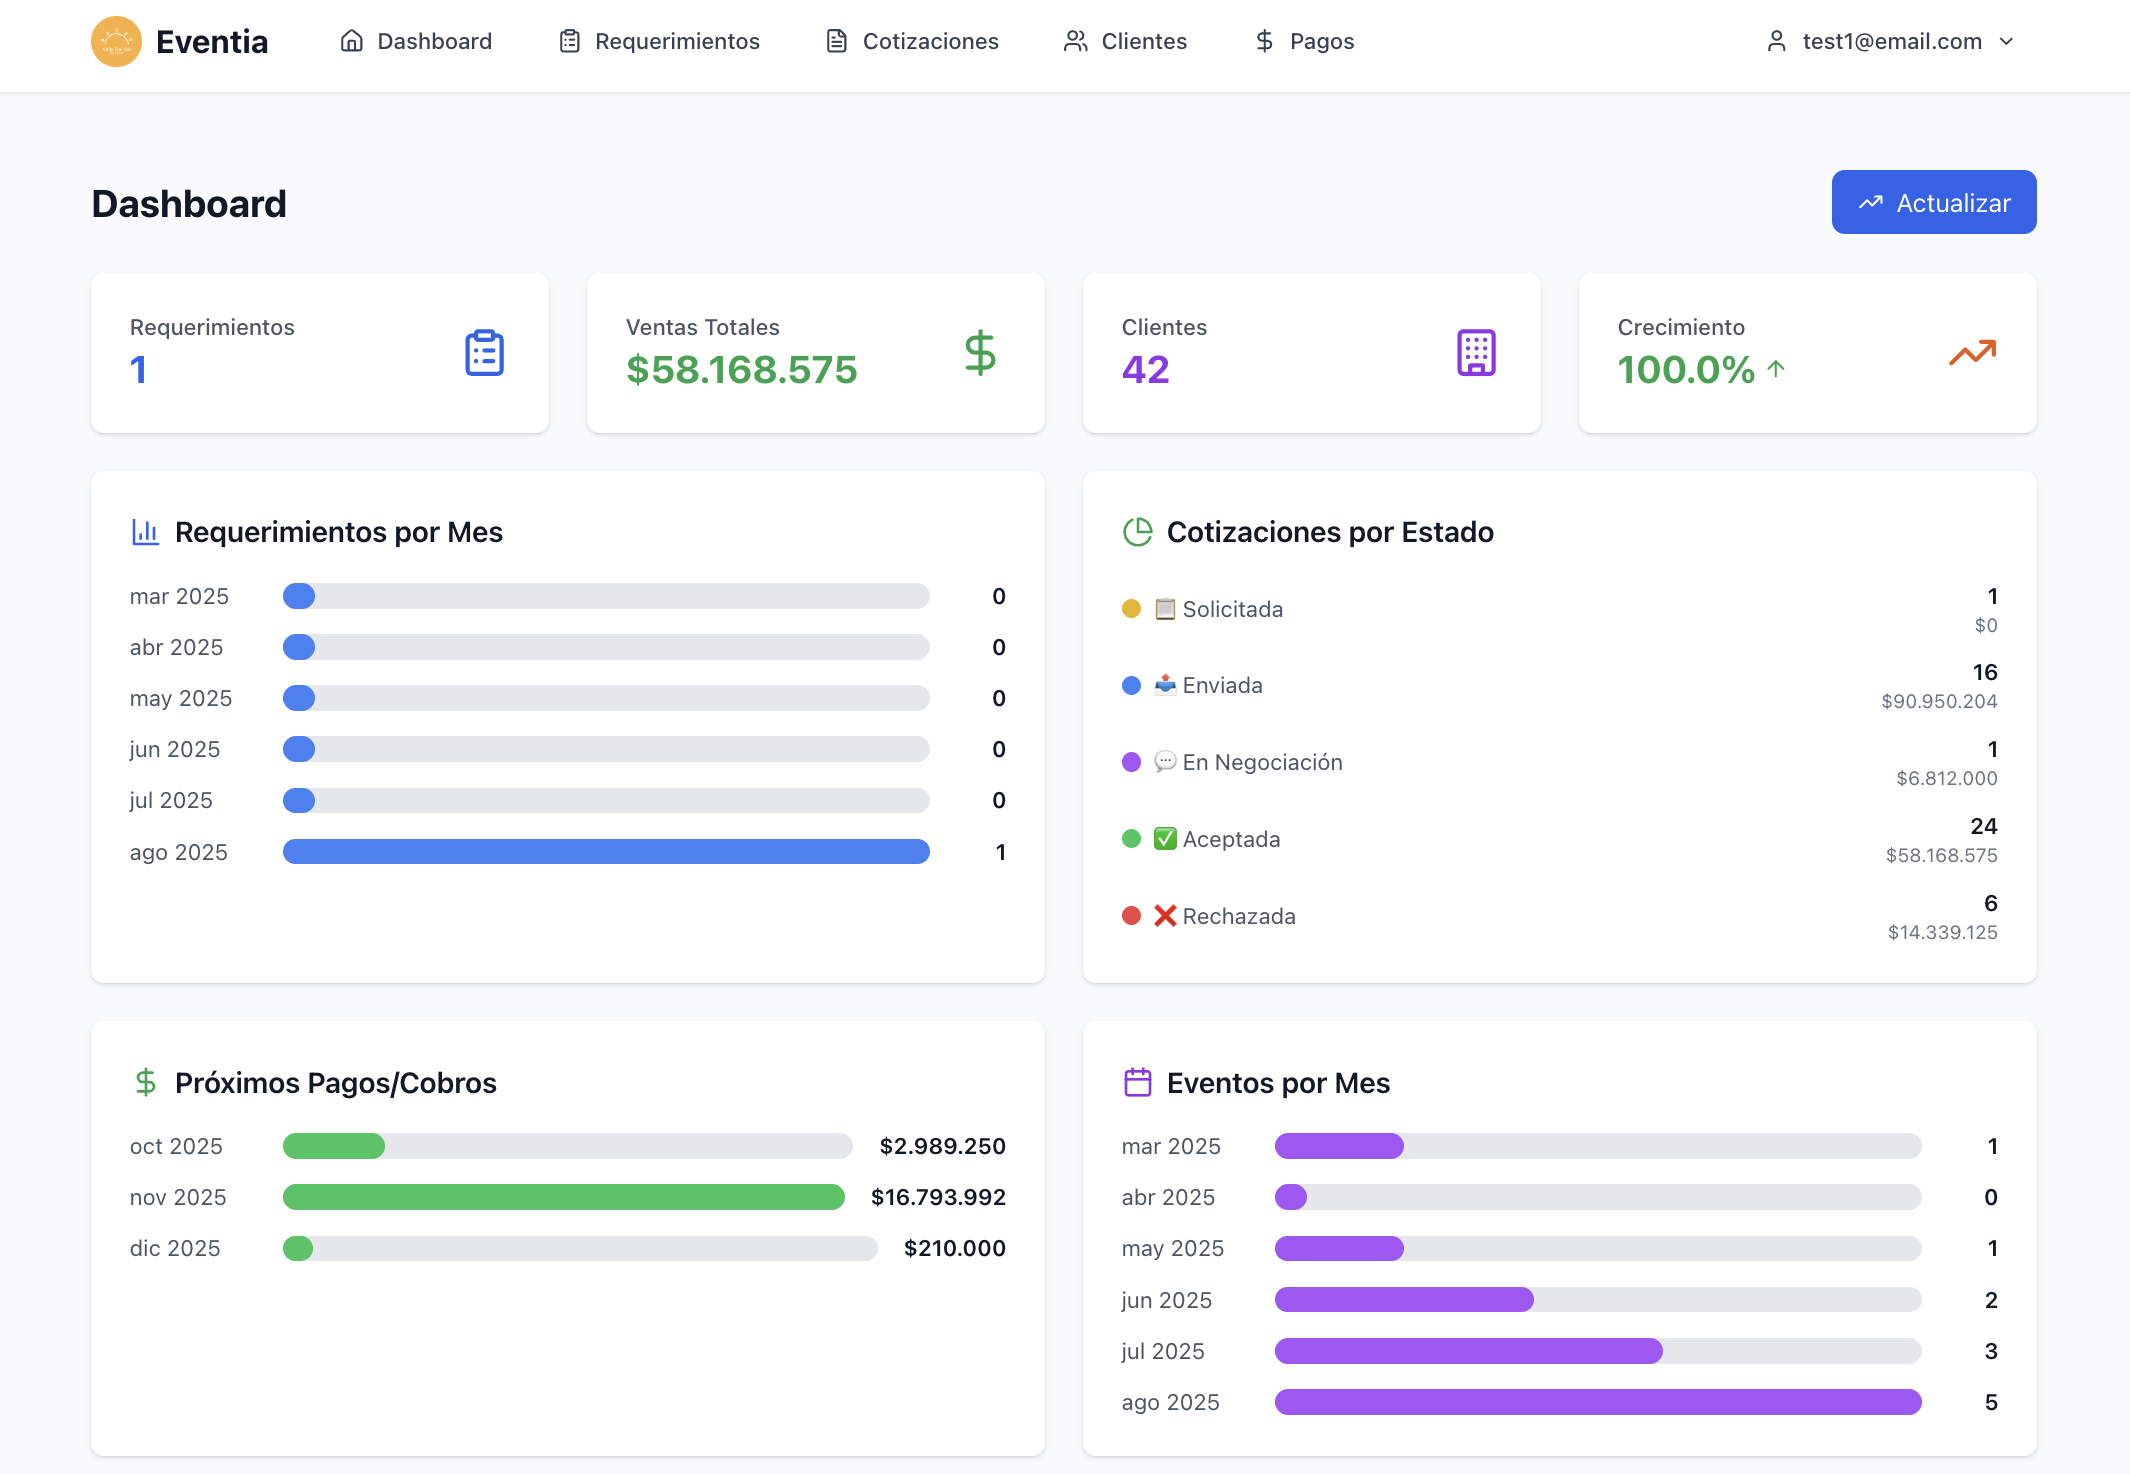
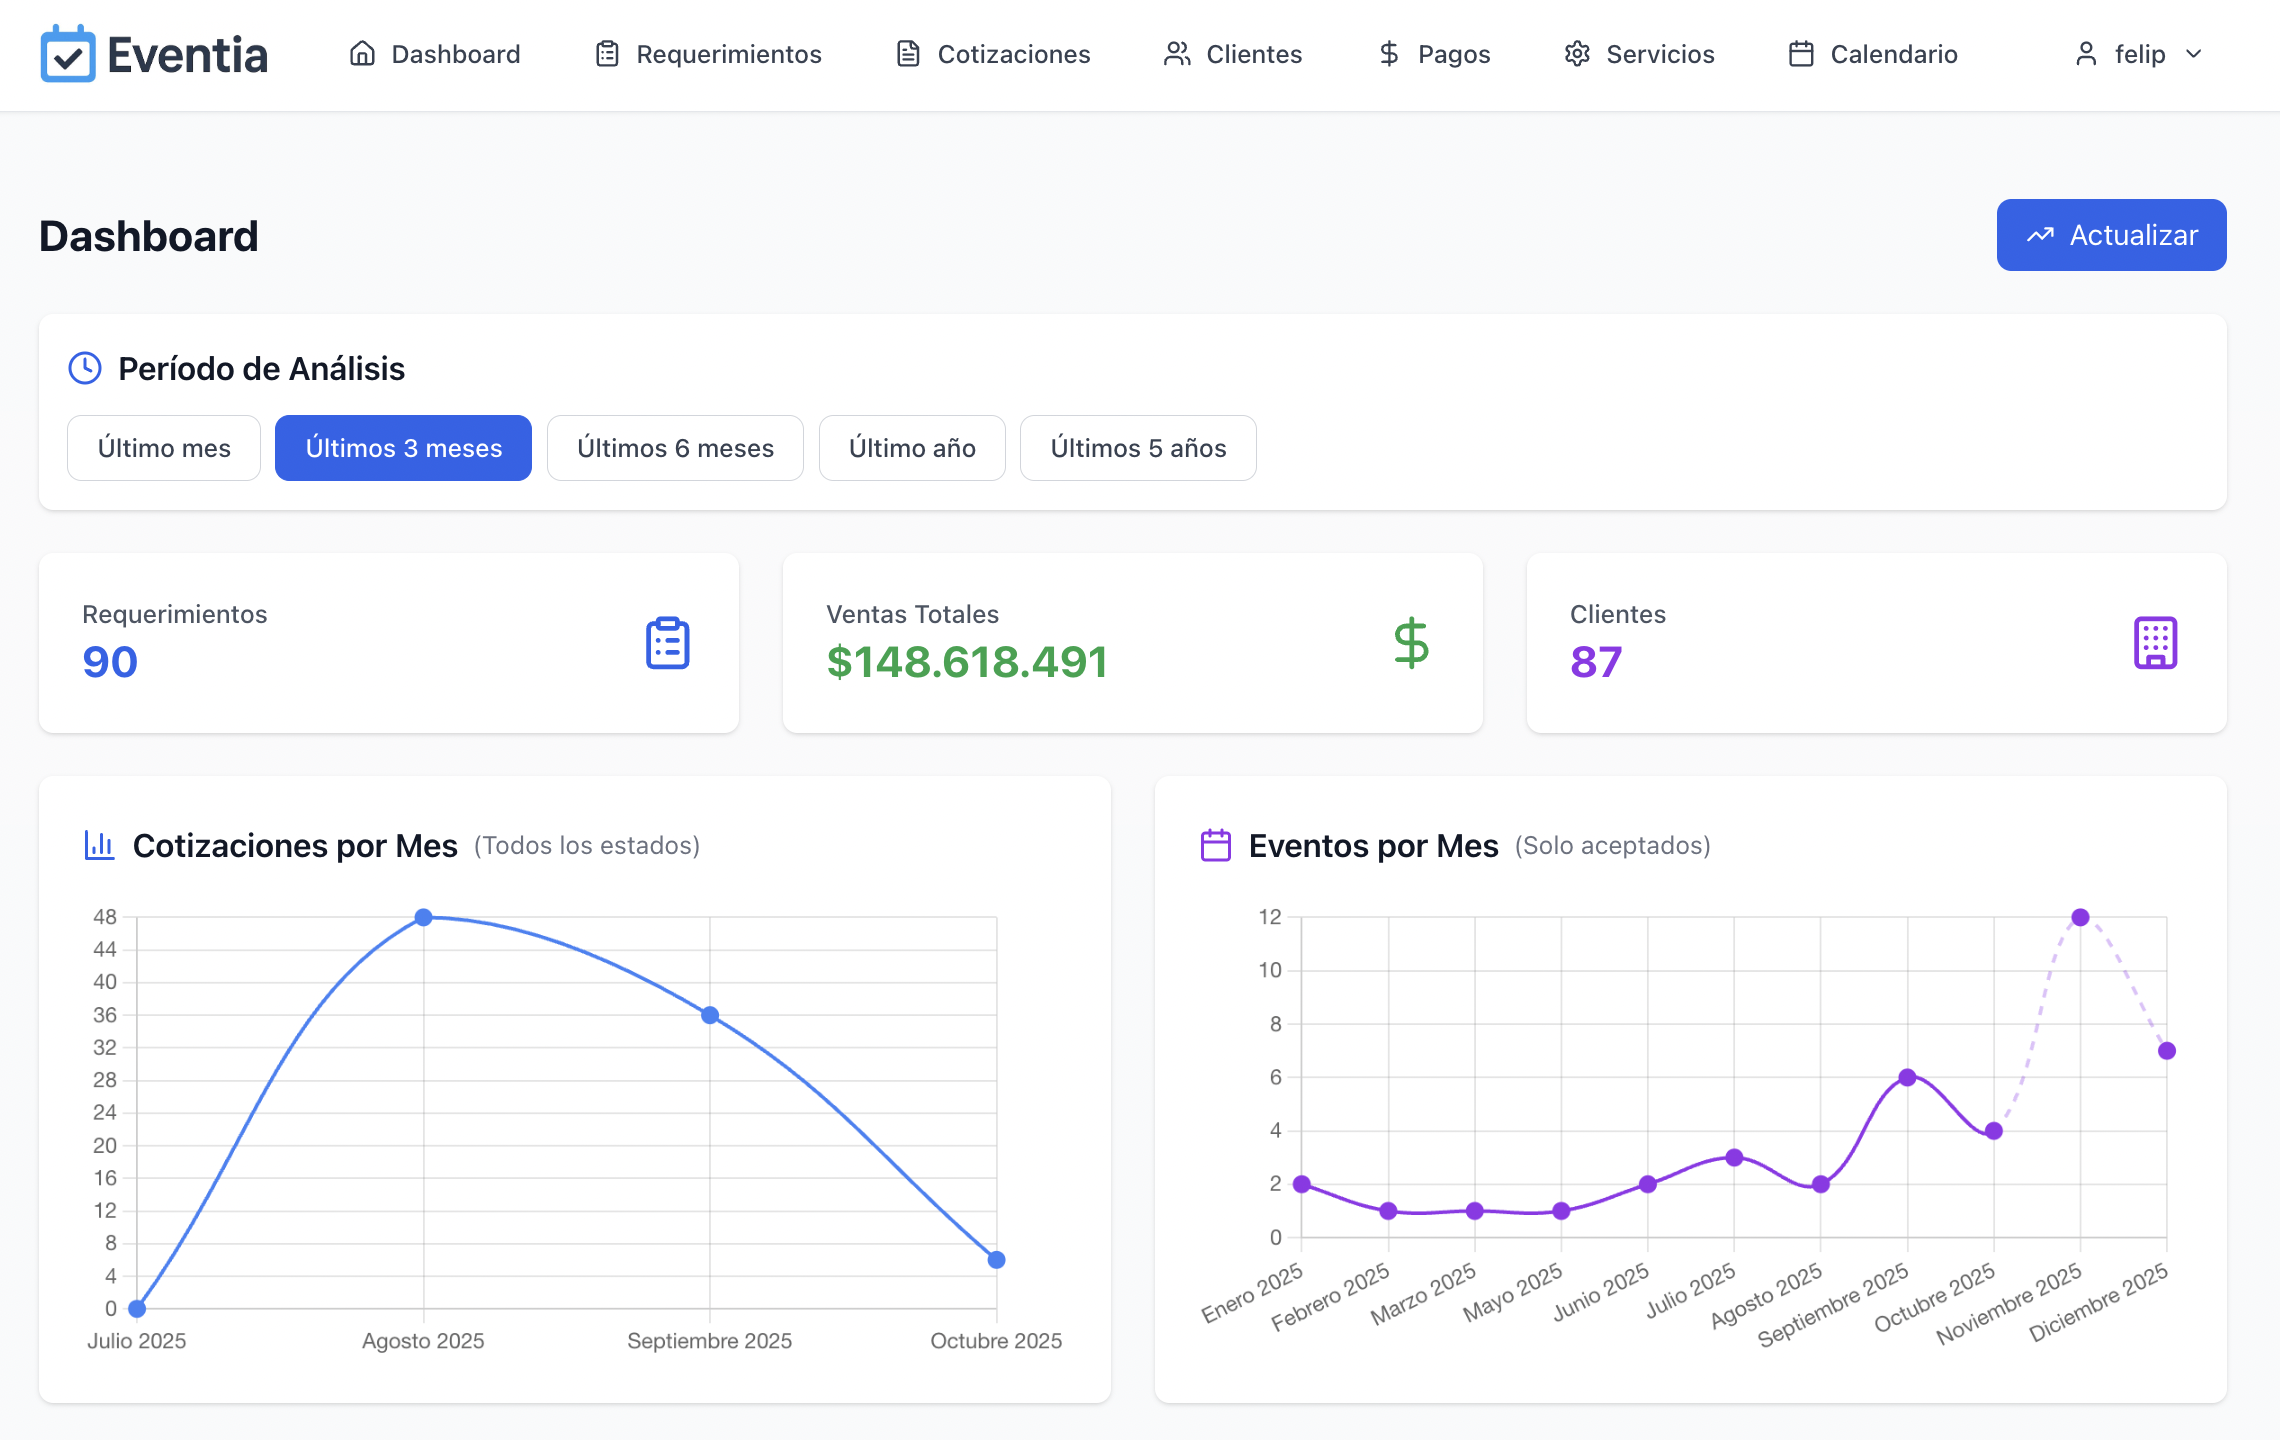
feat(front): change app iamge in landing. Emphazie demo is free

diff --git a/frontend/src/pages/landingPage/LandingPage.tsx b/frontend/src/pages/landingPage/LandingPage.tsx
@@ -106,7 +106,7 @@ export default function LandingPage() {
                   to="/register"
                   className="bg-blue-600 text-white px-8 py-4 rounded-lg hover:bg-blue-700 transition-colors text-lg font-semibold flex items-center justify-center space-x-2"
                 >
-                  <span>Solicitar Demo</span>
+                  <span>Agenda demo gratis</span>
                   <ArrowRight size={20} />
                 </Link>
               </div>
@@ -159,7 +159,7 @@ export default function LandingPage() {
               to="/register"
               className="inline-flex items-center space-x-2 bg-blue-600 text-white px-8 py-4 rounded-lg hover:bg-blue-700 transition-colors text-lg font-semibold"
             >
-              <span>Solicitar Demo</span>
+              <span>Agenda demo gratis</span>
               <ArrowRight size={20} />
             </Link>
           </div>
@@ -193,7 +193,7 @@ export default function LandingPage() {
                   to="/register"
                   className="inline-flex items-center space-x-2 bg-white text-blue-600 px-6 py-3 rounded-lg hover:bg-gray-100 transition-colors font-semibold"
                 >
-                  <span>Solicitar Demo</span>
+                  <span>Agenda demo gratis</span>
                   <ArrowRight size={18} />
                 </Link>
               </div>
@@ -312,7 +312,7 @@ export default function LandingPage() {
                 to="/register"
                 className="w-full bg-blue-600 text-white py-3 px-6 rounded-lg hover:bg-blue-700 transition-colors font-semibold flex items-center justify-center space-x-2"
               >
-                <span>Solicitar Demo</span>
+                <span>Agenda demo gratis</span>
                 <ArrowRight size={18} />
               </Link>
 
@@ -338,7 +338,7 @@ export default function LandingPage() {
             to="/register"
             className="inline-flex items-center space-x-2 bg-blue-600 text-white px-8 py-4 rounded-lg hover:bg-blue-700 transition-colors text-lg font-semibold"
           >
-            <span>Solicitar Demo</span>
+            <span>Agenda demo gratis</span>
             <ArrowRight size={20} />
           </Link>
         </div>

diff --git a/frontend/src/pages/landingPage/RegisterPage.tsx b/frontend/src/pages/landingPage/RegisterPage.tsx
@@ -36,7 +36,7 @@ export default function RegisterPage() {
               <span>Demo Gratuito</span>
             </div>
             <h1 className="text-4xl md:text-5xl font-bold text-gray-900 mb-6">
-              Solicita tu Demo de Eventia
+              Agenda tu Demo Gratis de Eventia
             </h1>
             <p className="text-xl text-gray-600 max-w-2xl mx-auto">
               Descubre cómo nuestra plataforma puede transformar la gestión de
